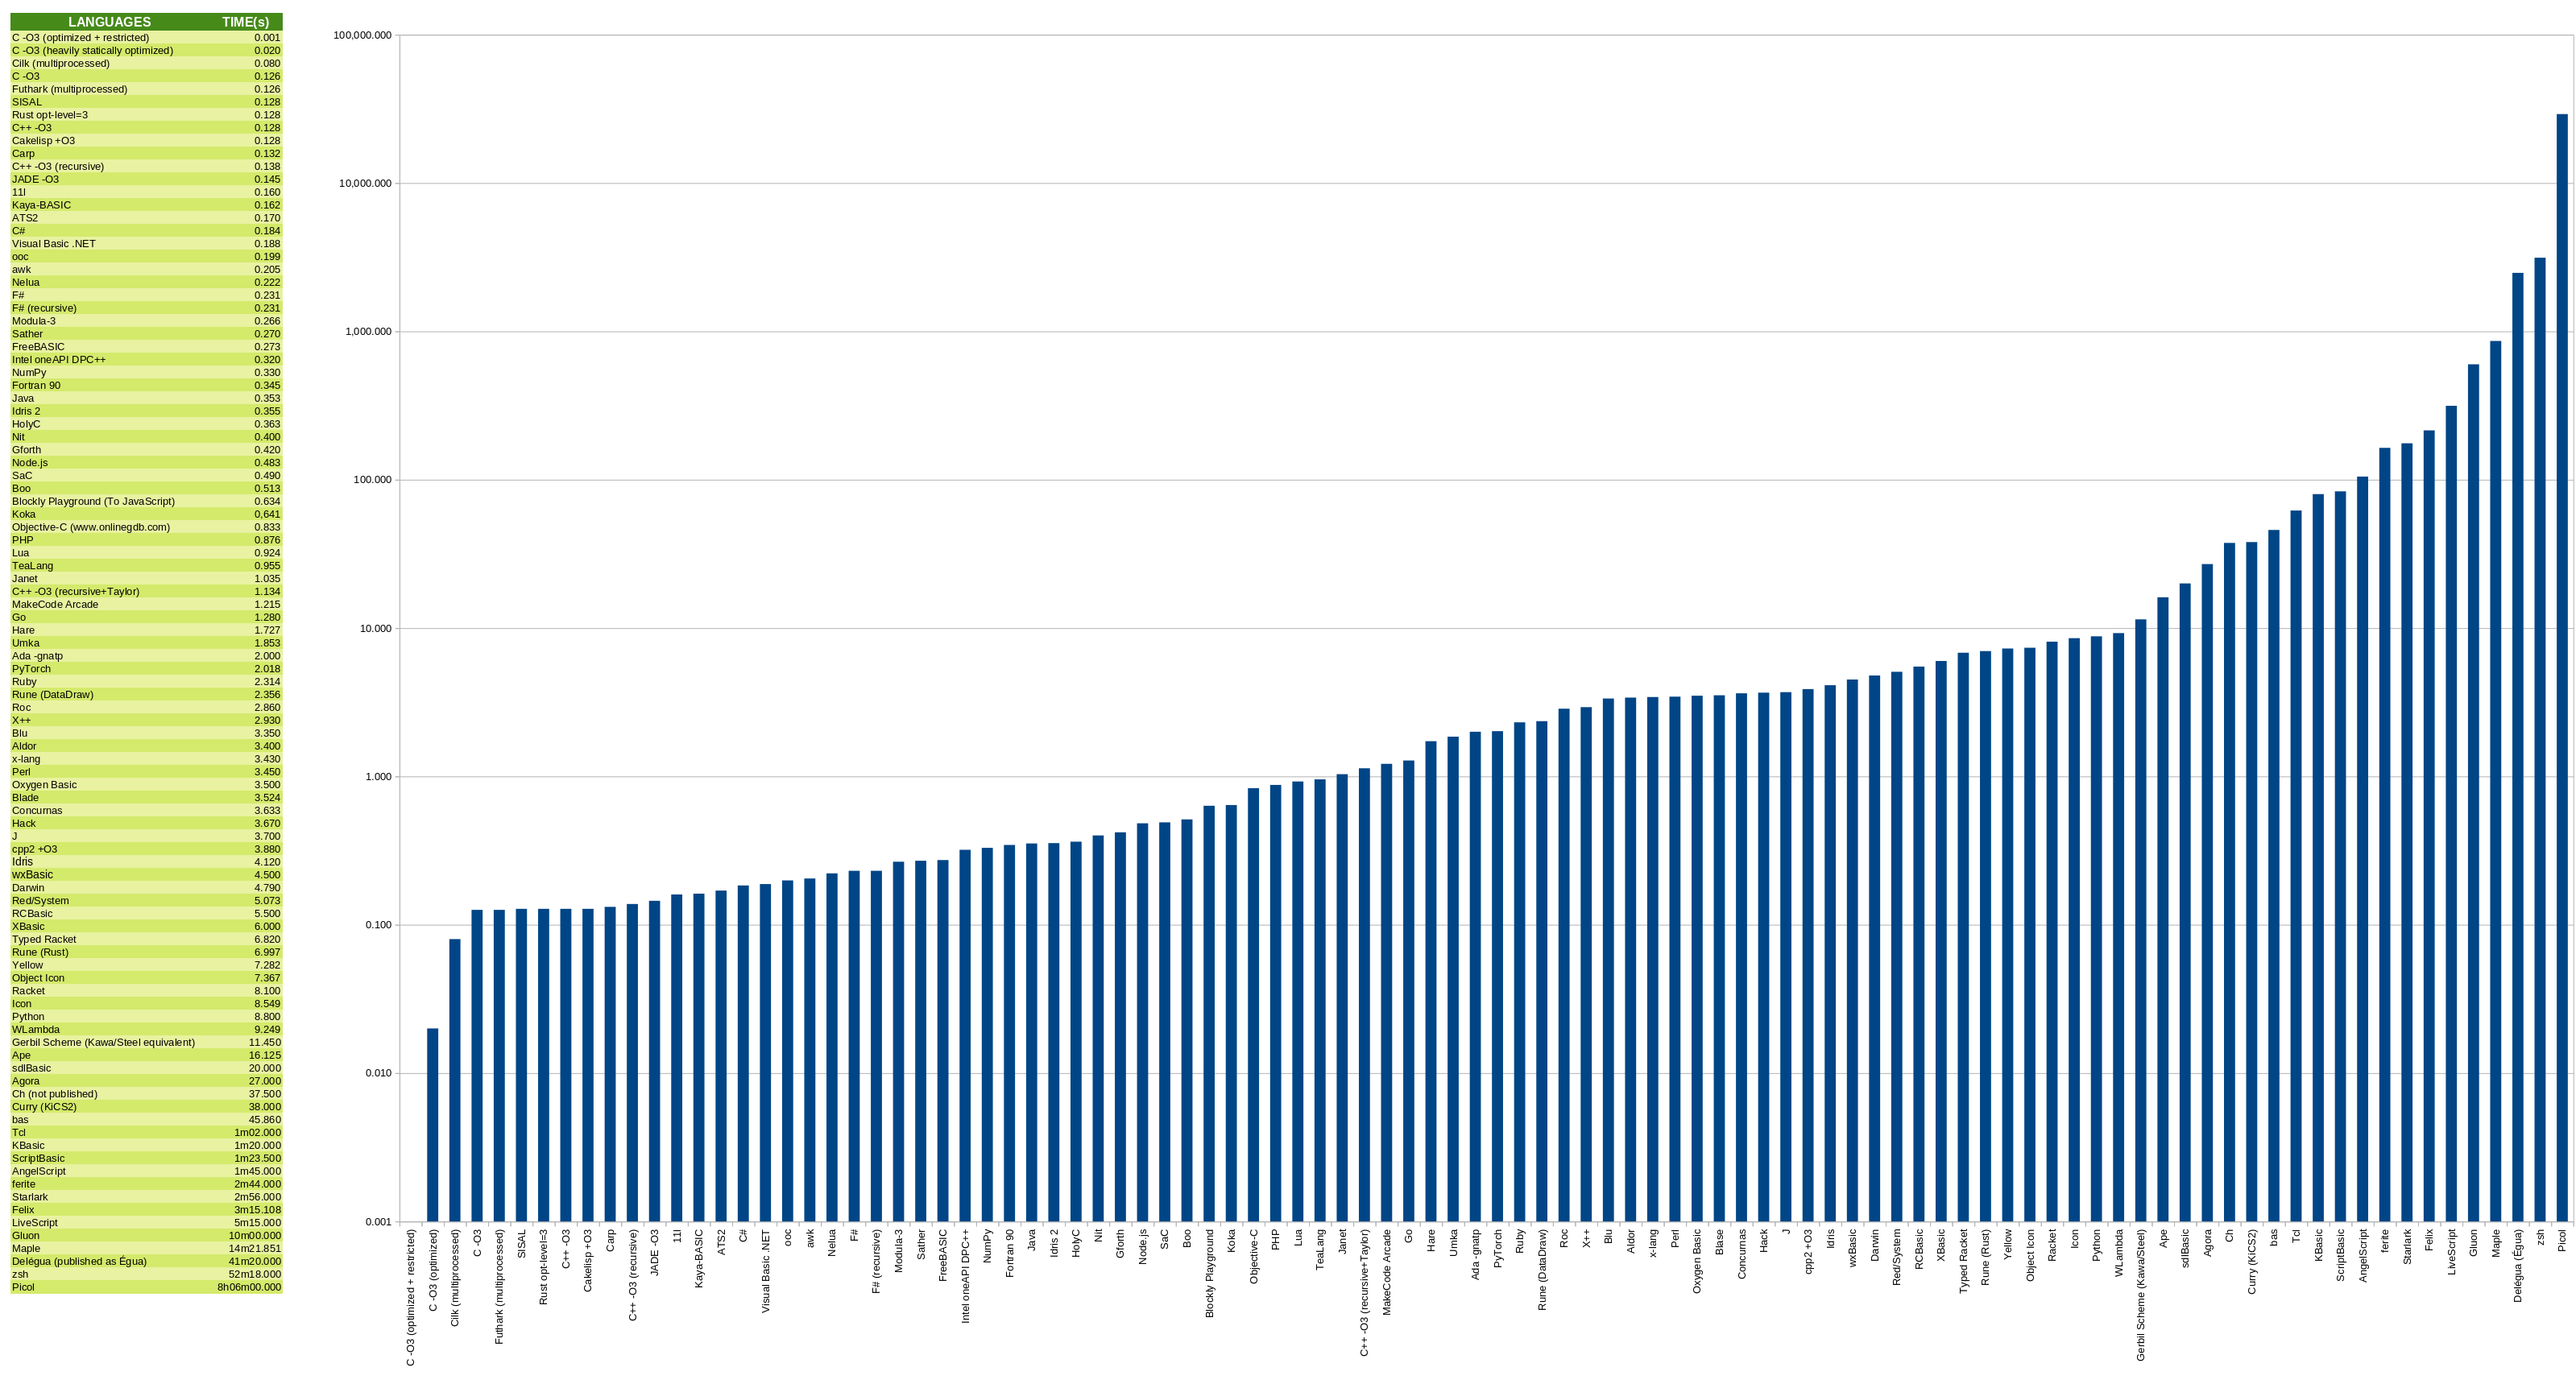
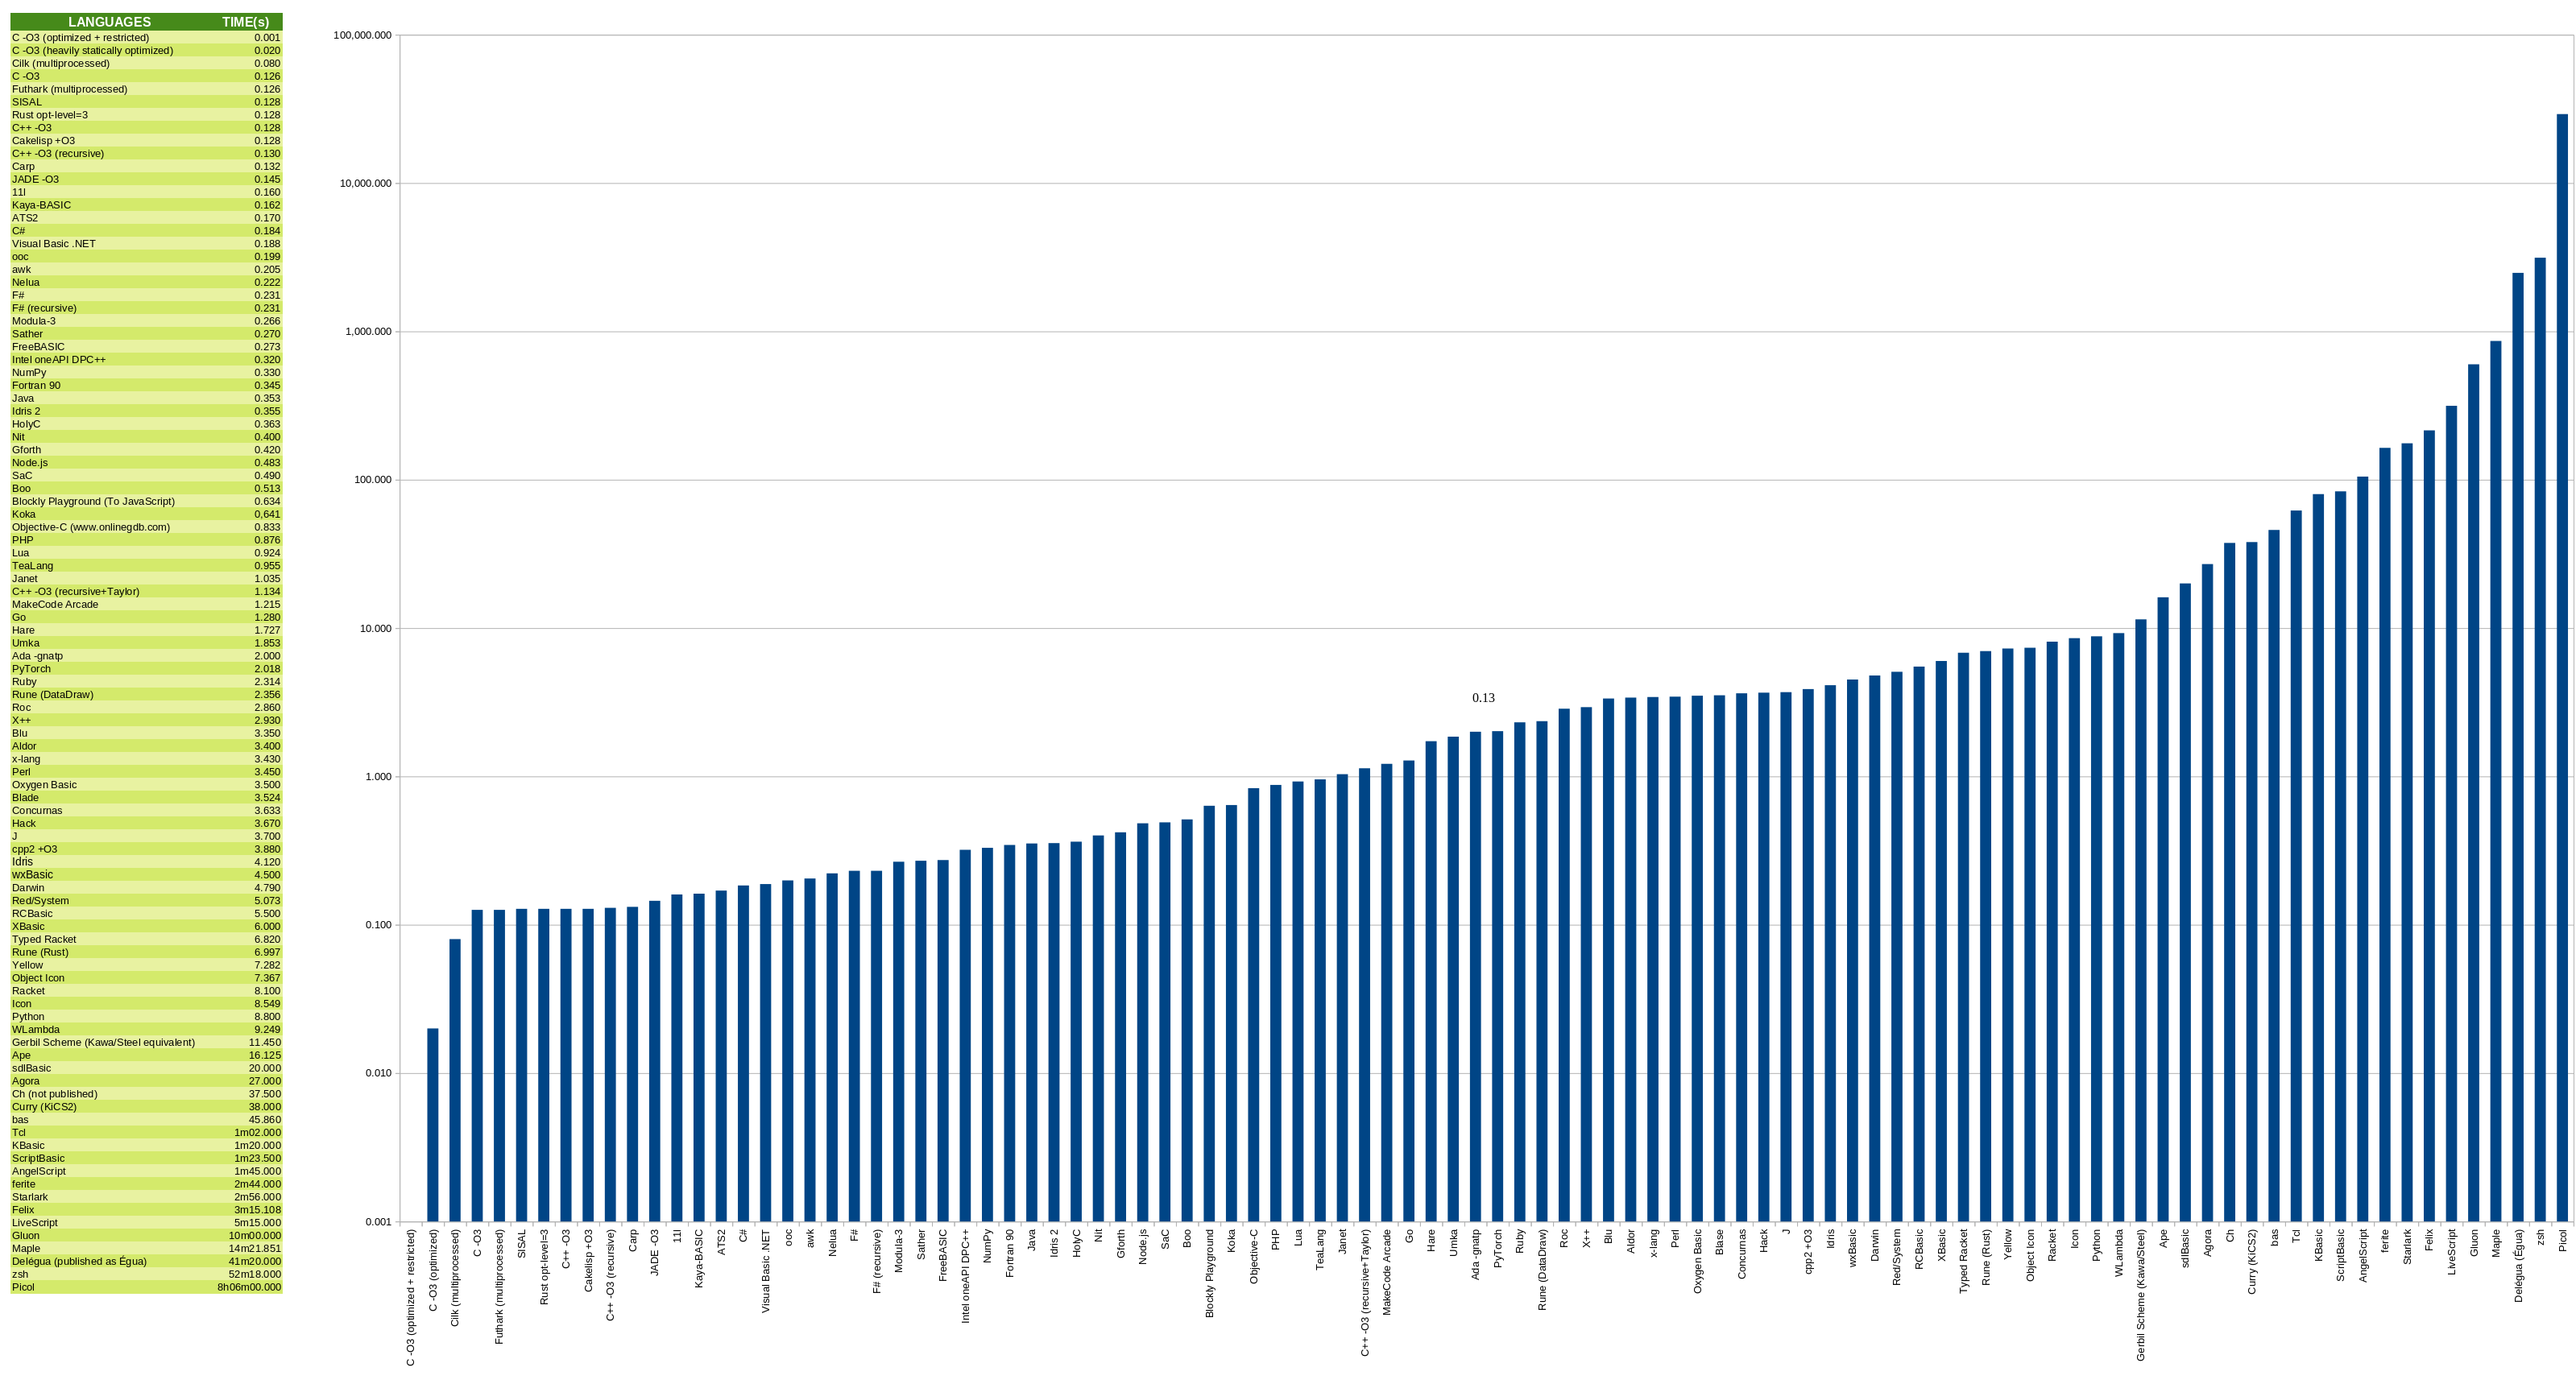
Add files via upload
+ TCO das geradoras

Changed region(s): [[0.2167, 0.8915, 0.2477, 0.9223], [0.0, 0.0922, 0.031, 0.123]]

diff --git a/juros_rec.cpp b/juros_rec.cpp
@@ -7,11 +7,9 @@
 // apenas ~ 64% mais lenta do que a versão canônica em C++ (interest.cpp). Não foram utilizados laços e todas as variáveis
 // foram atribuídas somente uma vez. As funções "geradoras" de vetores foram escritas pelo ChatGPT.
 
-// VERSÃO 0.2: agora roda a 0,138 s, ~ 7,8% mais lenta que na versão canônica de C++ porque permite Tail Call Optimization
+// VERSÃO 0.2: agora roda a 0,130 s, ~ 1,5% mais lenta que na versão canônica de C++ porque permite Tail Call Optimization
 
-// COMPILAR: g++ -O3 -march=native -DNDEBUG -std=c++17 juros_tco.cpp -o juros_tco
-
-// PREPARAR PARA MUITAS PARCELAS (TESTADO ATÉ 300.000): ulimit -s 65536
+// COMPILAR: g++ -O3 -march=native -DNDEBUG -std=c++17 juros_rec.cpp -o juros_rec
 
 #include <vector>  // vector
 #include <math.h>	// pow
@@ -26,22 +24,22 @@ std::vector<double> Pagamentos;
 std::vector<double> Pesos;
 
 // função recursiva que cria Pagamentos
-std::vector<double> rGeraPagamentos(int indice) {
-    if (indice <= 0) return {};
-    std::vector<double> resultado = rGeraPagamentos(indice - 1); resultado.push_back(indice * Periodo); return resultado;
+void rGeraPagamentos(int indice, std::vector<double>& resultado) {
+    if (indice <= 0) return;
+	resultado.push_back(indice * Periodo); rGeraPagamentos(indice - 1, resultado);
 }
 
 // açúcar que cria Pagamentos
-std::vector<double> geraPagamentos() { return rGeraPagamentos(Quantidade); }
+void geraPagamentos(std::vector<double>& resultado) { rGeraPagamentos(Quantidade, resultado); }
 
-// função recursiva que cria Pesos
-std::vector<double> rGeraPesos(int indice) {
-    if (indice <= 0) return {};
-    std::vector<double> resultado = rGeraPesos(indice - 1); resultado.push_back(1.0); return resultado;
+// função recursiva que cria Pagamentos
+void rGeraPesos(int indice, std::vector<double>& resultado) {
+    if (indice <= 0) return;
+	resultado.push_back(1.0); rGeraPesos(indice - 1, resultado);
 }
 
 // açúcar que cria Pesos
-std::vector<double> geraPesos() { return rGeraPesos(Quantidade); }
+void geraPesos(std::vector<double>& resultado) { rGeraPesos(Quantidade, resultado); }
 
 // função recursiva que calcula a somatória de Pesos
 double rGetPesoTotal(int indice, double acumulador) { if (indice < 0) return acumulador; else return rGetPesoTotal(indice - 1, acumulador + Pesos[indice]);}
@@ -89,8 +87,8 @@ int main() {
     Periodo = 30.0;
 
     // inicializam recursivamente os vetores globais
-    Pagamentos = geraPagamentos();
-    Pesos = geraPesos();
+    geraPagamentos(Pagamentos);
+    geraPesos(Pesos);
 
     // calcula e guarda os resultados das funções
     double pesoTotal = getPesoTotal();
